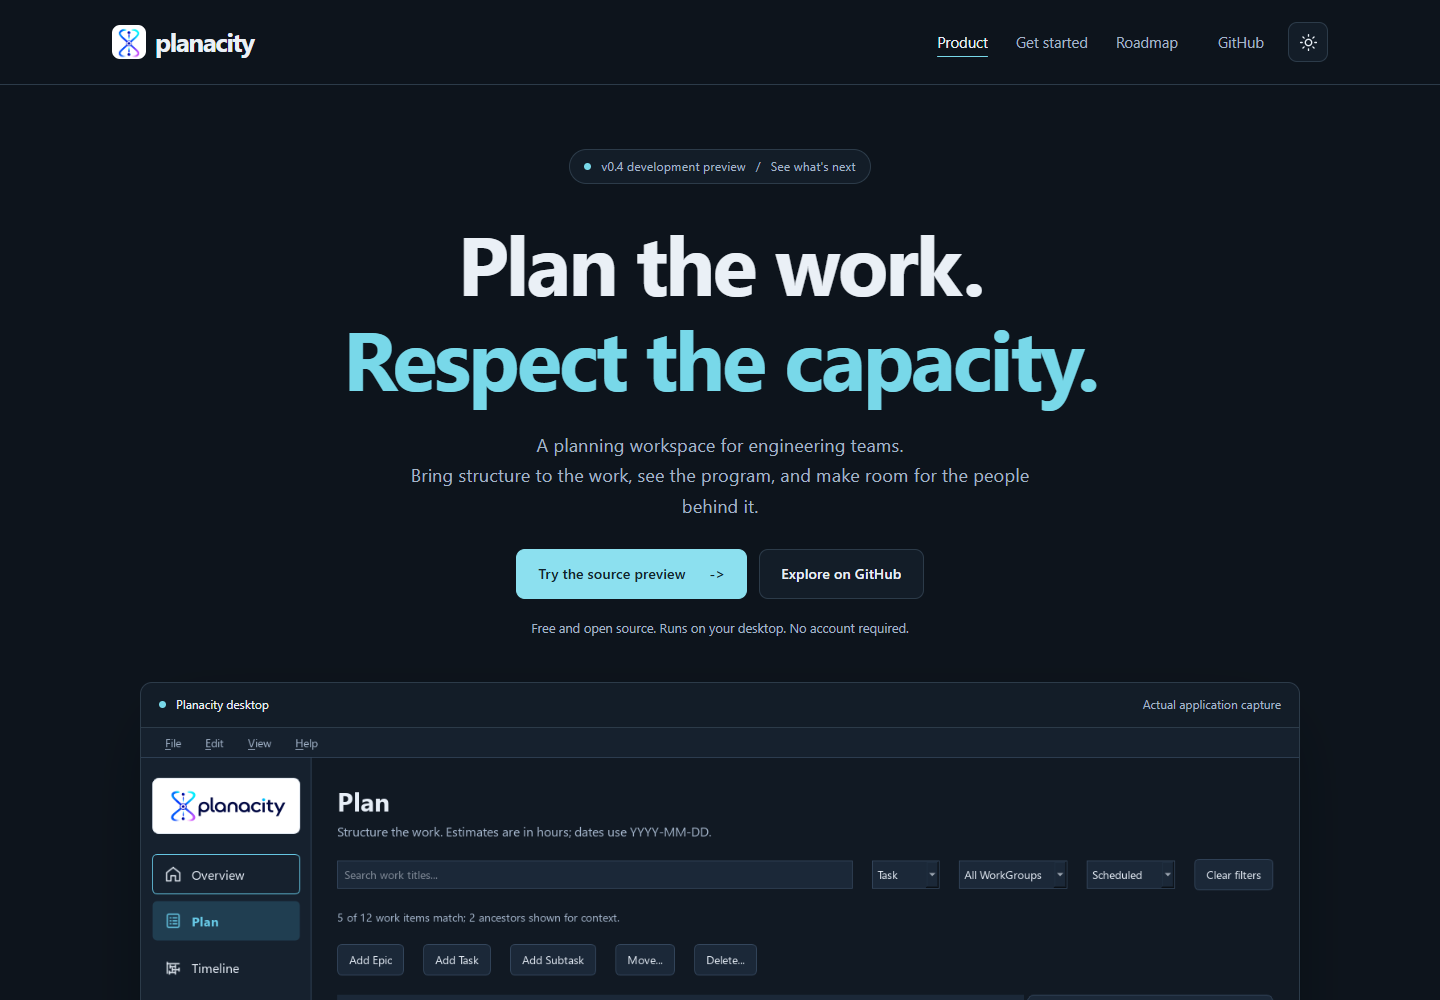
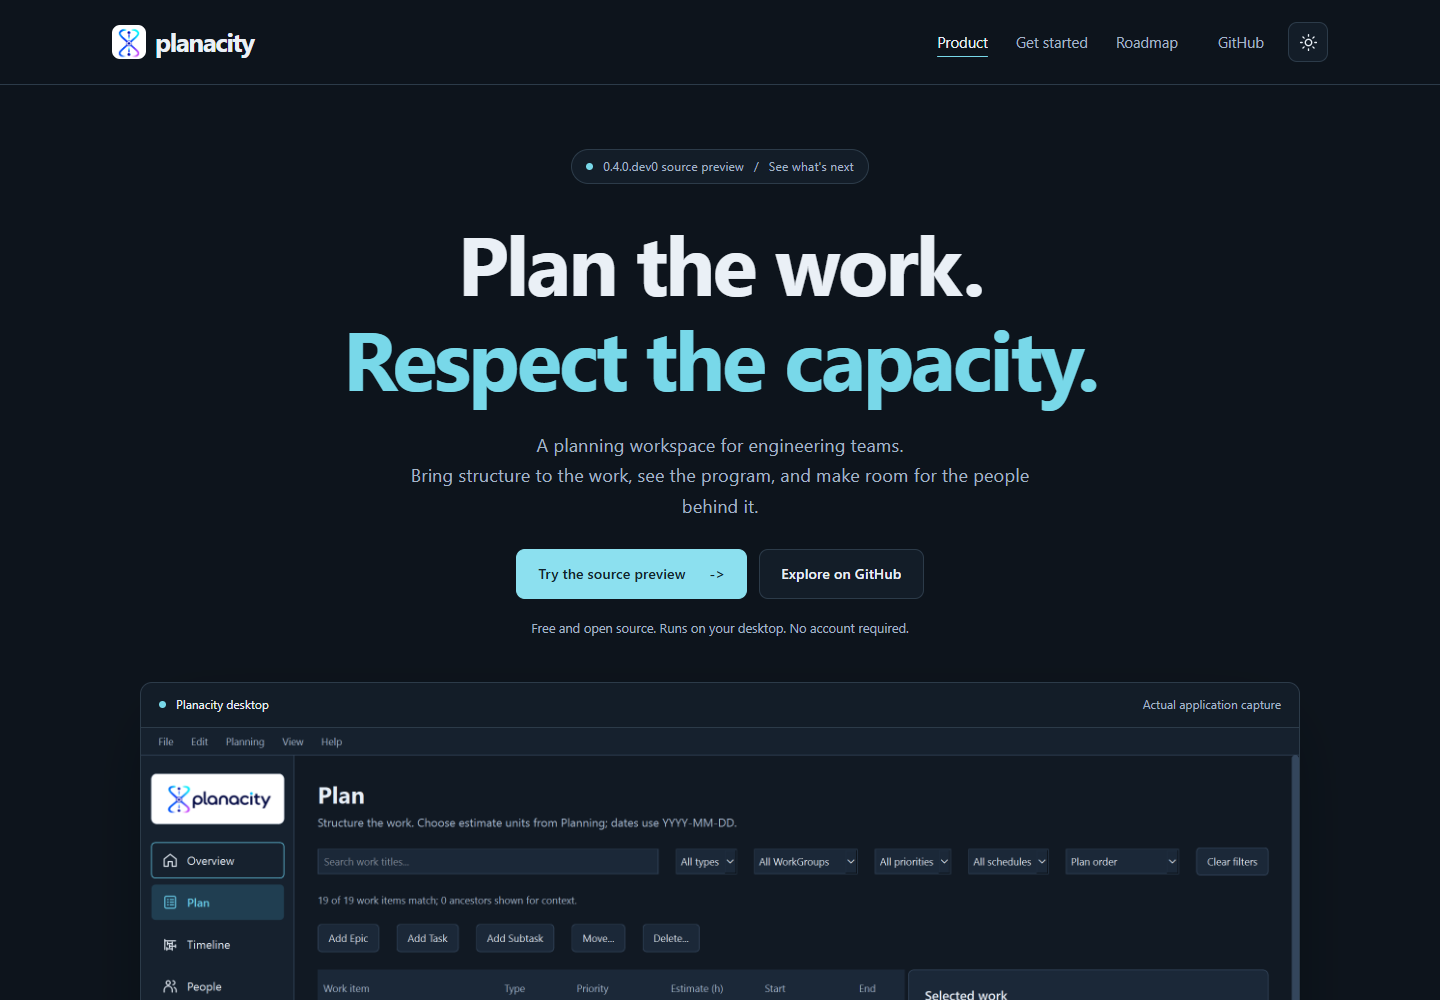
docs(website): refresh v0.5 preview status

diff --git a/CHANGELOG.md b/CHANGELOG.md
@@ -210,6 +210,9 @@ Meaningful user-facing changes are recorded here. Planacity uses Semantic Versio
 
 ### Changed
 
+- Refresh the public website to match the schema 13 source preview, completed
+  Calendar and availability-import work, manual sprint planning, recent Jira
+  usability, and the remaining v0.5 focus without announcing a new release.
 - The public website now distinguishes the `0.4.0.dev0` source version from the
   active v0.5 Program Calendar milestone. Its Home, Roadmap, and getting-started
   status now reflect implemented capacity, Team Timeline, dependency, ownership,
